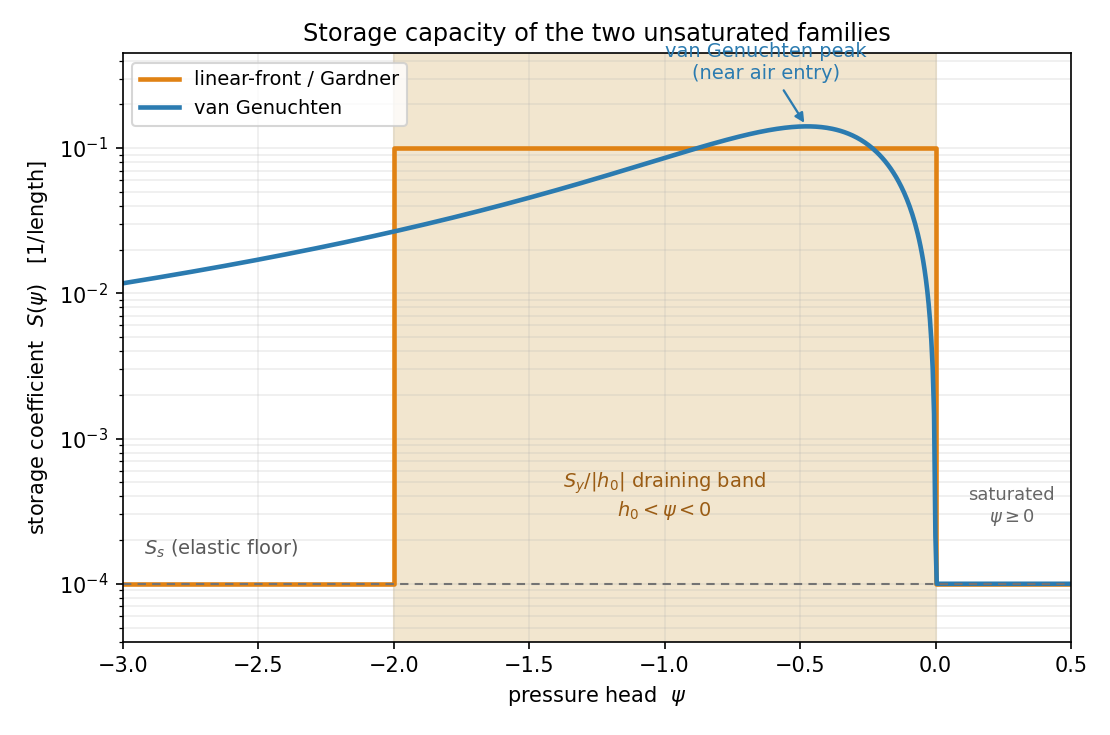
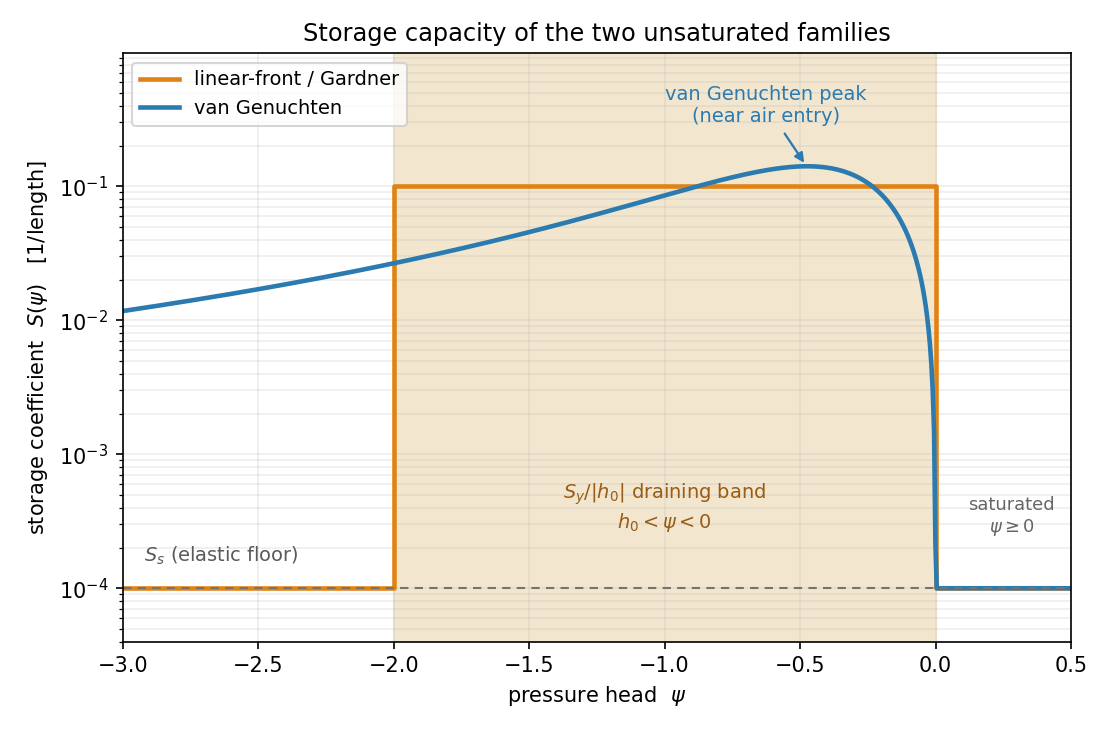
docs(seep): headroom for the vG-peak annotation on the storage figure (Norm)
Claude-Session: https://claude.ai/code/session_0147GB4LGVZuqGHCRMVzZTsR

diff --git a/tools/make_transient_figures.py b/tools/make_transient_figures.py
@@ -279,7 +279,9 @@ def fig_storage_models():
     ax.set_xlim(-3.0, 0.5)
     ipk = int(np.nanargmax(S_vg))
     peak = float(S_vg[ipk])
-    top = max(band, peak) * 3.2
+    # headroom: the vG-peak annotation is two text lines anchored (va="bottom")
+    # at 2x the peak, so the top must clear ~a further half-decade above that
+    top = max(band, peak) * 7.0
     ax.set_ylim(Ss * 0.4, top)
 
     # Ss elastic floor (bottom-left, just above the floor line)
